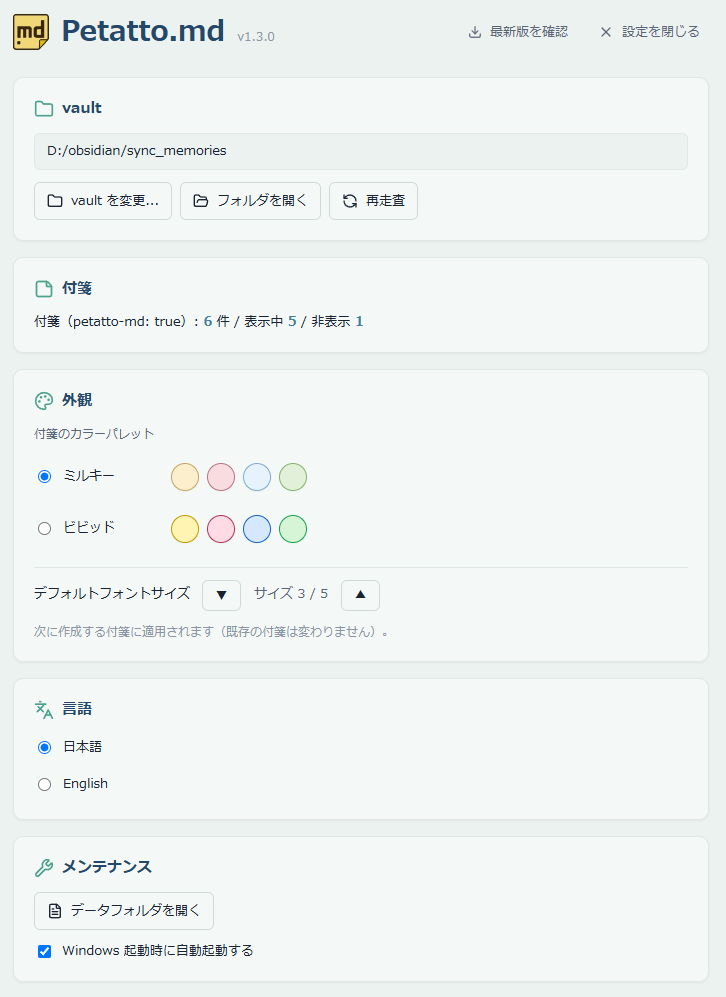
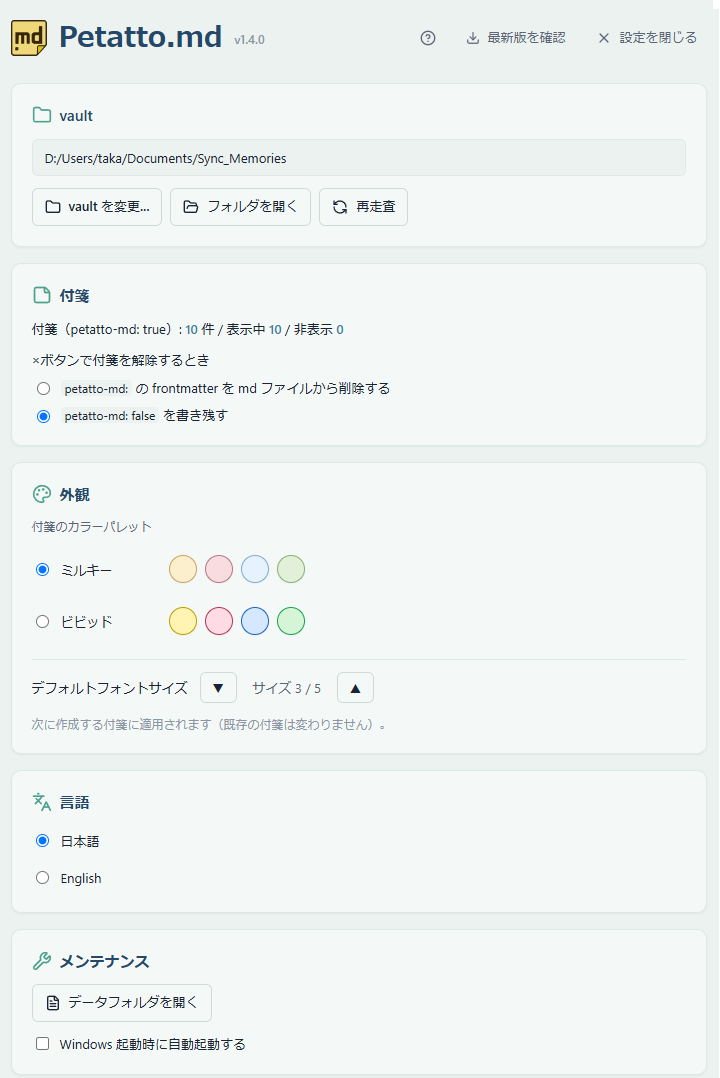
docs: v1.4.0 同期（.petatto-ignore/解除時 false 書き残し・スクショ更新・notices 版番号）

diff --git a/README.md b/README.md
@@ -110,7 +110,33 @@ petatto-md: true
 
 ### 付箋化の解除
 
-付箋ヘッダの「**×**」ボタンを押す → frontmatter の `petatto-md: true` が削除され、付箋が消えます（ファイル自体は残ります）。
+付箋ヘッダの「**×**」ボタンを押すと付箋化が解除され、付箋が消えます（**md ファイル自体は残ります**）。
+
+解除したときに frontmatter をどう扱うかは、メインウィンドウの「**付箋**」カードにある「**×ボタンで付箋を解除するとき**」で選べます。
+
+| 選択 | 解除後の md |
+|---|---|
+| **`petatto-md:` の frontmatter を md ファイルから削除する**（既定） | キーごと削除されます（他にキーが無ければ frontmatter ブロックごと消えます） |
+| **`petatto-md: false` を書き残す** | キーは残り、値だけが `false` になります。frontmatter の他のキーやコメントはそのまま保たれます |
+
+書き残す方を選ぶと、Obsidian 側で `petatto-md: false` を検索して「**前に付箋にしていたノート**」を辿れます。設定は次回以降の解除にも引き継がれます。
+
+どちらの場合も、トレイの「**新規付箋化...**」から選び直せば再び付箋になります（`petatto-md: false` のファイルも選べます）。
+
+> ⚠ 付箋の位置・サイズ・色は付箋化を解除した時点で破棄されます。再付箋化しても元には戻りません（既定値から始まります）。
+
+### フォルダを監視対象から除外する（`.petatto-ignore`）
+
+Templates フォルダのように「`petatto-md: true` を含む md が入っているが付箋にはしたくない」場所は、そのフォルダを丸ごと監視対象から外せます。
+
+除外したいフォルダの中に、**拡張子のない空ファイル `.petatto-ignore`** を 1 つ置いてください。そのフォルダ配下（サブフォルダも含め何段でも）の md は、`petatto-md: true` が付いていてもスキャンされず、付箋になりません。
+
+- **作り方**: Obsidian はドット始まりのファイルを作れないため、**エクスプローラ**など OS 側の操作で作成します（例: 対象フォルダ内で右クリック → 新規作成 → テキスト ドキュメント → 名前を `.petatto-ignore` に変え、拡張子を消す）。中身は空で構いません。
+- **正しい手順**: **`.petatto-ignore` を置いてから**、対象ノートの `petatto-md` を編集します。逆順にすると `true` にした一瞬だけ付箋が現れますが、付箋ヘッダの「×」で剥がせば元に戻せます。
+- **範囲**: vault のルート直下に置くと vault 全体が除外されます。除外中のフォルダのファイルは、トレイの「**新規付箋化...**」でも選べません（「除外設定されているフォルダのファイルは付箋化できません」と表示されます）。
+- **元に戻す**: `.petatto-ignore` を削除すると、次回の起動（または配下ファイルの次の更新）から自動的に対象へ戻ります。
+
+> Obsidian のテンプレート機能を使っている場合は、`.petatto-ignore` を置くのが確実です。フォルダ名を `.Templates` のようにドット始まりへ変える回避策は**おすすめしません**（Obsidian 自身もドット始まりフォルダを無視するため、テンプレートとして機能しなくなります）。
 
 ## 付箋の操作
 

diff --git a/README.en.md b/README.en.md
@@ -112,7 +112,33 @@ When saved, Petatto.md auto-detects it and shows the sticky note on your desktop
 
 ### Unpinning
 
-Click the **"×"** button on the sticky note header. The `petatto-md: true` flag is removed and the note disappears (the file itself remains).
+Click the **"×"** button on the sticky note header. The note is unpinned and disappears from your desktop (**the md file itself remains**).
+
+What happens to the frontmatter is up to you — pick one under **"When removing a sticky note with ×"** in the **Sticky notes** card of the main window.
+
+| Choice | The md after unpinning |
+|---|---|
+| **Delete the `petatto-md:` frontmatter key from the md file** (default) | The key is removed (and the whole frontmatter block disappears if no other keys remain) |
+| **Keep `petatto-md: false` in the file** | The key stays and only its value flips to `false`. Other frontmatter keys and comments are preserved |
+
+Keeping the flag lets you search for `petatto-md: false` in Obsidian to find **notes you used to have on your desktop**. The choice persists for subsequent unpins.
+
+Either way, you can pin the note again from **"New sticky note..."** in the tray menu (files with `petatto-md: false` can be selected too).
+
+> ⚠ The sticky note's position, size, and color are discarded the moment you unpin. Re-pinning does not bring them back — it starts from the defaults.
+
+### Excluding a folder from watching (`.petatto-ignore`)
+
+For places like a Templates folder — where the `.md` files carry `petatto-md: true` but you don't want them as sticky notes — you can exclude the whole folder from watching.
+
+Put a single **empty, extensionless file named `.petatto-ignore`** inside the folder you want to exclude. Every `.md` under that folder (including nested subfolders, at any depth) is then skipped by the scan and never becomes a sticky note, even if it has `petatto-md: true`.
+
+- **How to create it**: Obsidian cannot create dot-files, so use **Explorer** or another OS-level tool (e.g. right-click inside the target folder → New → Text Document → rename it to `.petatto-ignore` and drop the extension). The contents can be empty.
+- **Correct order**: **place `.petatto-ignore` first**, then edit `petatto-md` on the notes. If you do it the other way around, the note appears as a sticky for a moment, but you can remove it with the **"×"** button on its header.
+- **Scope**: Placing the marker directly in the vault root excludes the entire vault. Files inside an excluded folder cannot be pinned from **"New sticky note..."** in the tray either (you'll see "This file is in an excluded folder and cannot be pinned").
+- **Undo**: Delete `.petatto-ignore` and the folder returns to being watched from the next startup (or the next change to a file under it).
+
+> If you use Obsidian's template feature, dropping in a `.petatto-ignore` is the reliable option. Renaming the folder to something dot-prefixed like `.Templates` is **not recommended** — Obsidian itself ignores dot-prefixed folders, so it would stop working as a templates folder.
 
 ## Sticky Note Operations
 

diff --git a/non_goals.md b/non_goals.md
@@ -32,6 +32,9 @@ Petatto.md は **Obsidian を置き換える md エディタではない**。編
 - 外部（Obsidian / エクスプローラ等）でのリネーム・移動への追従（`<旧パス削除> + <新パス追加>` として個別処理する）
 - 付箋同士のグループ化・タグ付け
 - シンボリックリンク（symlink）の追従。実体ファイルへの symlink になっている `.md` は付箋として認識しない（vault スキャンは通常ファイルのみを対象とし、リンクは辿らない）
+- 監視から除外するフォルダを指定する **設定 UI**（除外は `.petatto-ignore` マーカーファイルで行う。真実は FS 側のマーカーのみに置き、DB・設定には持たない）
+
+> 監視除外は「除外したいフォルダに空ファイル `.petatto-ignore` を置く」gitignore 的な方式で提供する（配下は何段でも除外・詳細は README）。フォルダを選ぶ設定画面や除外一覧の管理 UI は当面持たない——真実を FS のマーカー 1 つに集約し、Obsidian 側の vault を汚さないため。
 
 > アプリ主導のファイル名変更（付箋ヘッダからのリネーム）は対応する。アプリ起動中の「行方不明（外部削除・移動）」の検知と編集内容の退避も対応する。対象外なのは「外部リネームの自動追従」。
 

diff --git a/non_goals.en.md b/non_goals.en.md
@@ -32,6 +32,9 @@ Petatto.md is **not a replacement Markdown editor for Obsidian**. Editing happen
 - Following external renames/moves (from Obsidian, Explorer, etc.); these are handled individually as `<old path removed> + <new path added>`
 - Grouping or tagging sticky notes together
 - Following symbolic links (symlinks). A `.md` that is a symlink to a real file is not recognized as a sticky note (the vault scan targets regular files only and does not follow links)
+- A **settings UI** for choosing folders to exclude from watching (exclusion is done with a `.petatto-ignore` marker file; the source of truth lives only in the filesystem, not in the DB or settings)
+
+> Watch exclusion is offered as a gitignore-style mechanism — drop an empty `.petatto-ignore` file into the folder you want to exclude (everything under it is excluded at any depth; see the README). A settings screen for picking folders or a management UI listing exclusions is not planned for now — the source of truth is kept in a single filesystem marker so the Obsidian vault stays untouched.
 
 > App-initiated file renaming (from the sticky note header) is supported. Detecting a note that has "gone missing" (externally deleted/moved) while the app is running, and saving off your edits, is also supported. What's out of scope is *automatically following external renames*.
 
